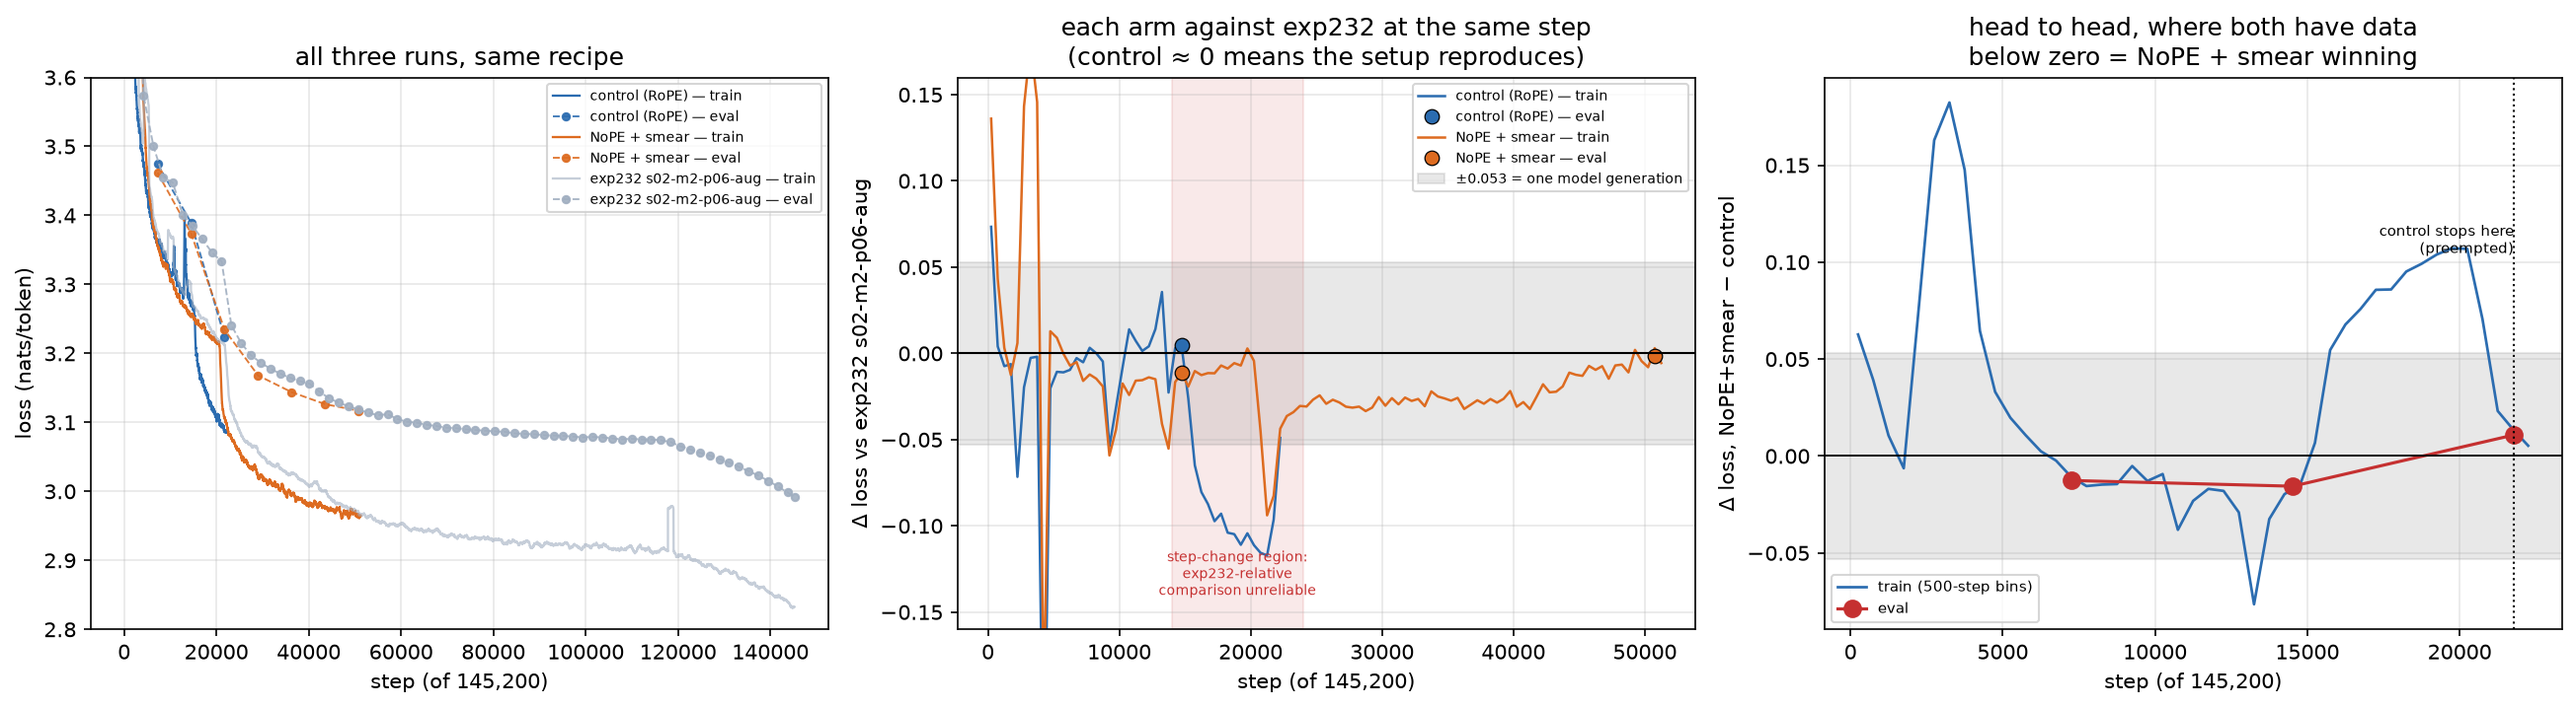
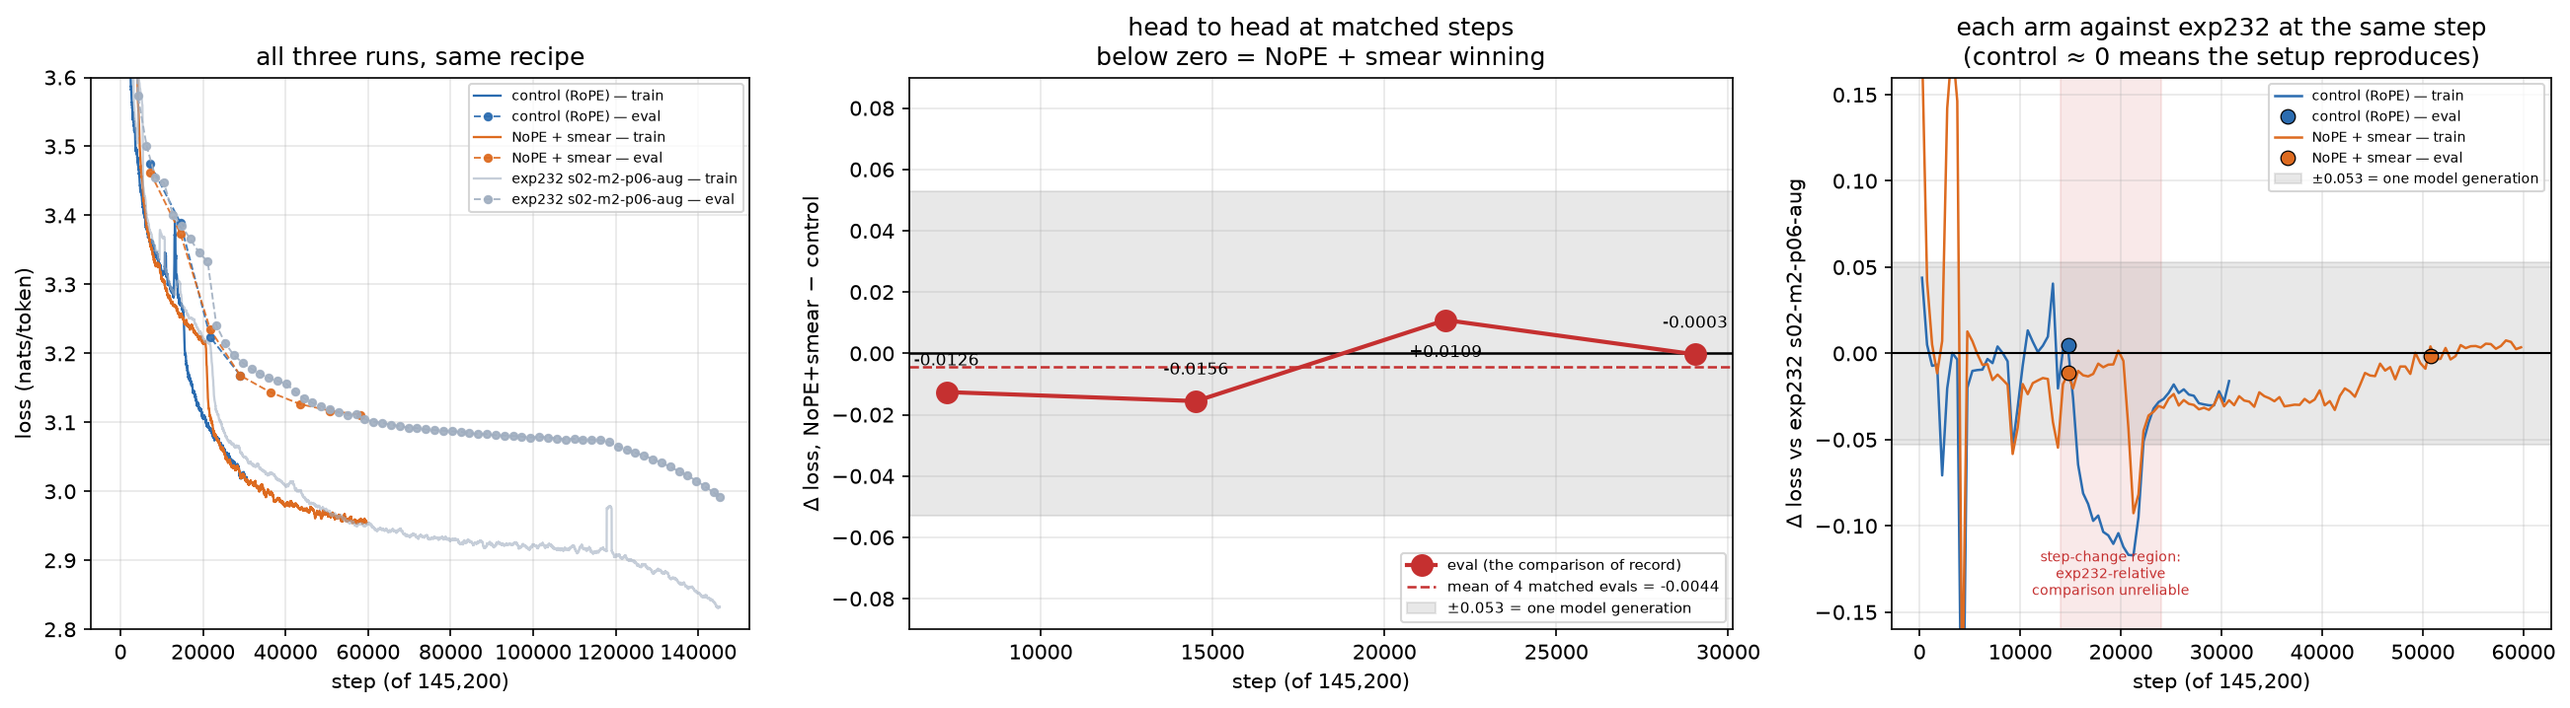
exp262: make the matched-eval head-to-head the headline panel
Four matched evals now exist and they are the comparison of record: both arms
scored at identical steps on identical data. Their mean is -0.0044, against the
-0.157 the 15M pilot predicted and the 0.053 a full model generation is worth.

The panel is eval-only on purpose. The arms' train-loss difference is
contaminated by the step-change timing offset — the control's is near 15k, the
NoPE arm's near 21k — so showing it beside the evals invites reading a
scheduling artifact as an architecture effect.

diff --git a/experiments/exp262_models_nope_token_smearing/plot_full_runs.py b/experiments/exp262_models_nope_token_smearing/plot_full_runs.py
@@ -82,7 +82,9 @@ def main() -> None:
     reference_train = data[REFERENCE]["train"]
     reference_eval = data[REFERENCE]["eval"]
 
-    figure, (curves, versus, direct) = plt.subplots(1, 3, figsize=(17.5, 4.9))
+    figure, (curves, direct, versus) = plt.subplots(
+        1, 3, figsize=(17.5, 4.9), width_ratios=[1.0, 1.25, 1.0]
+    )
 
     for label, payload in data.items():
         smoothed = payload["train"].rolling(60, min_periods=15).mean()
@@ -125,24 +127,29 @@ def main() -> None:
     versus.grid(alpha=0.3)
 
     control, proposal = data["control (RoPE)"], data["NoPE + smear"]
-    left, right = binned(proposal["train"]), binned(control["train"])
-    shared = left.index.intersection(right.index)
-    if len(shared):
-        direct.plot(shared, (left.loc[shared] - right.loc[shared]).values, color="#2b6cb0",
-                    linewidth=1.3, label=f"train ({BIN}-step bins)")
-    shared_eval = control["eval"].index.intersection(proposal["eval"].index)
-    if len(shared_eval):
-        direct.plot(shared_eval, (proposal["eval"].loc[shared_eval] - control["eval"].loc[shared_eval]).values,
-                    "o-", color="#c53030", markersize=8, label="eval")
-        direct.axvline(float(shared_eval.max()), color="black", linestyle=":", linewidth=1.0)
-        direct.annotate("control stops here\n(preempted)", (float(shared_eval.max()), 0.12),
-                        fontsize=7, ha="right", va="top")
-    direct.axhline(0, color="black", linewidth=0.9)
-    direct.axhspan(-GENERATION_NATS, GENERATION_NATS, color="gray", alpha=0.18)
+    # Deliberately eval-only. The arms' train-loss difference is contaminated by
+    # the step-change timing offset (the control's is near 15k, the NoPE arm's
+    # near 21k), so plotting it beside the matched evals invites reading a
+    # scheduling artifact as an architecture effect.
+    matched = control["eval"].index.intersection(proposal["eval"].index)
+    deltas = (proposal["eval"].loc[matched] - control["eval"].loc[matched])
+    if len(matched):
+        direct.plot(matched, deltas.values, "o-", color="#c53030", markersize=10,
+                    linewidth=2.0, zorder=3, label="eval (the comparison of record)")
+        for step, value in zip(matched, deltas.values):
+            direct.annotate(f"{value:+.4f}", (step, value), textcoords="offset points",
+                            xytext=(0, 13 if value < 0 else -18), ha="center", fontsize=8)
+        mean = float(deltas.mean())
+        direct.axhline(mean, color="#c53030", linestyle="--", linewidth=1.2,
+                       label=f"mean of {len(deltas)} matched evals = {mean:+.4f}")
+    direct.axhline(0, color="black", linewidth=1.2)
+    direct.axhspan(-GENERATION_NATS, GENERATION_NATS, color="gray", alpha=0.18,
+                   label=f"±{GENERATION_NATS} = one model generation")
+    direct.set_ylim(-0.09, 0.09)
     direct.set_xlabel("step (of 145,200)")
     direct.set_ylabel("Δ loss, NoPE+smear − control")
-    direct.set_title("head to head, where both have data\nbelow zero = NoPE + smear winning")
-    direct.legend(fontsize=7)
+    direct.set_title("head to head at matched steps\nbelow zero = NoPE + smear winning")
+    direct.legend(fontsize=7, loc="lower right")
     direct.grid(alpha=0.3)
 
     figure.tight_layout()
@@ -154,8 +161,11 @@ def main() -> None:
             "not move the loss scale, and it is why the NoPE curve below zero can be read as "
             "architecture. Right: head to head where both have data; the control was preempted at "
             "step 21,535 and is catching up. Grey band is the 0.053 nats the #75 to #117 generation "
-            "was worth. The red band is where all three runs have a step-change in loss at "
-            "different steps, so differencing across it measures timing, not quality."
+            "was worth. Middle is the comparison of record — both arms scored at identical "
+            "steps on identical data; the small-scale pilot predicted about -0.16 and the mean "
+            "of the matched evals is nowhere near it. Right: the red band is where all three "
+            "runs have a step-change at different steps, so differencing across it measures "
+            "timing rather than quality."
         ),
         dpi=150,
     )
